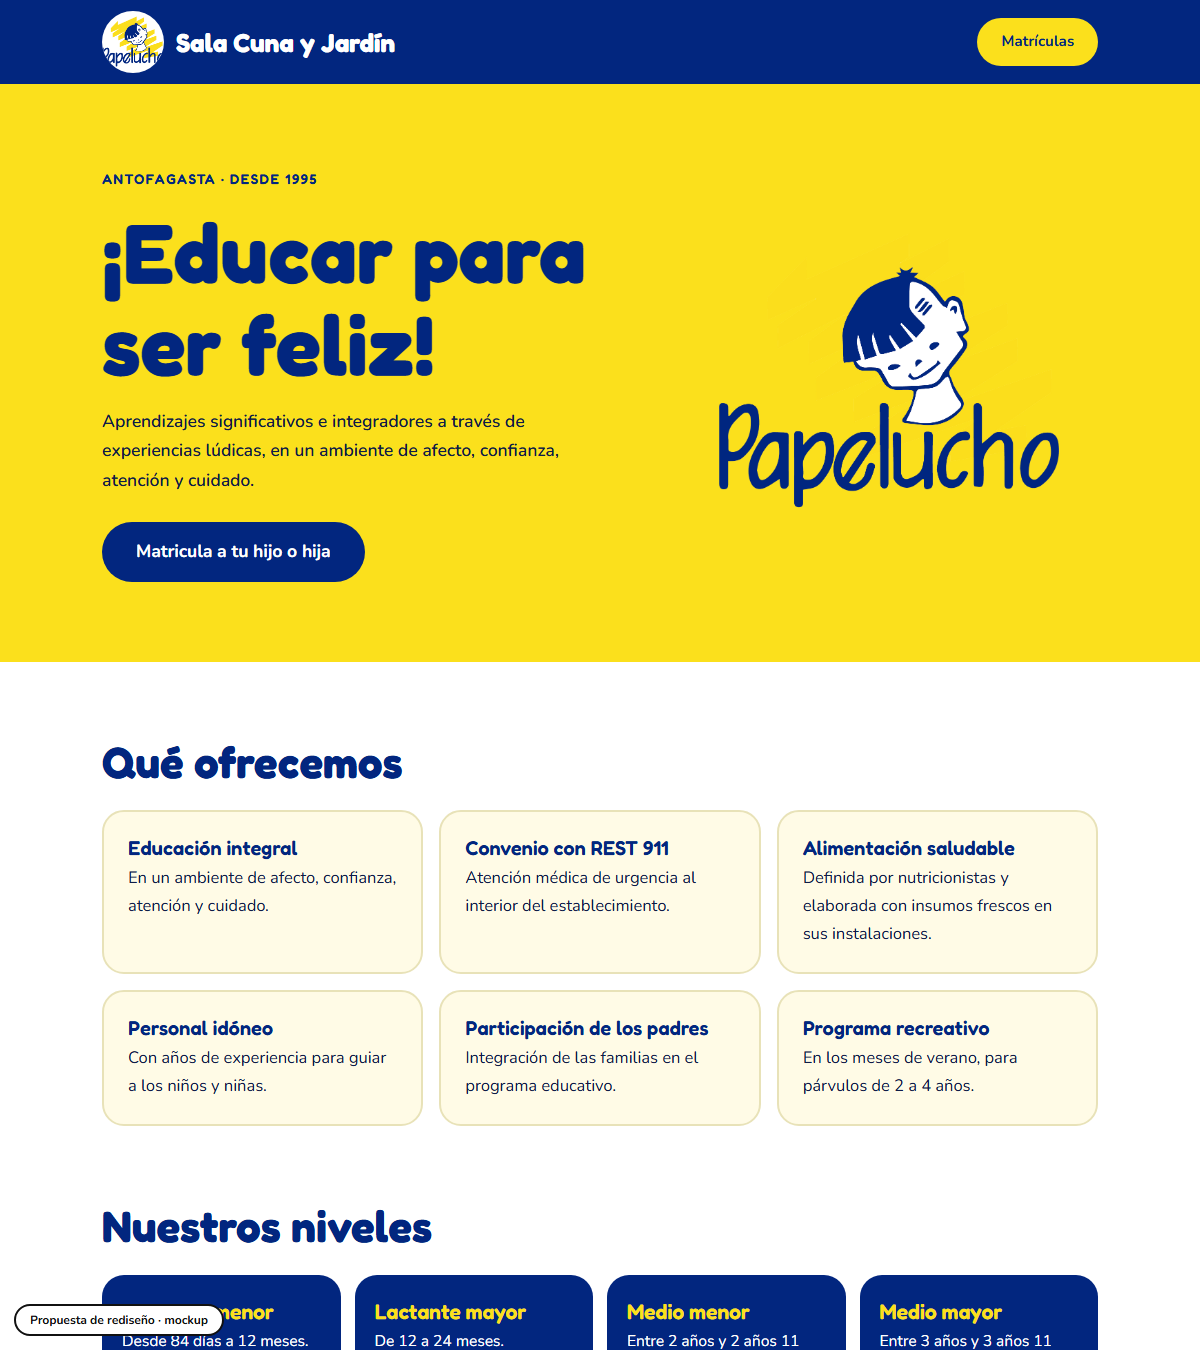
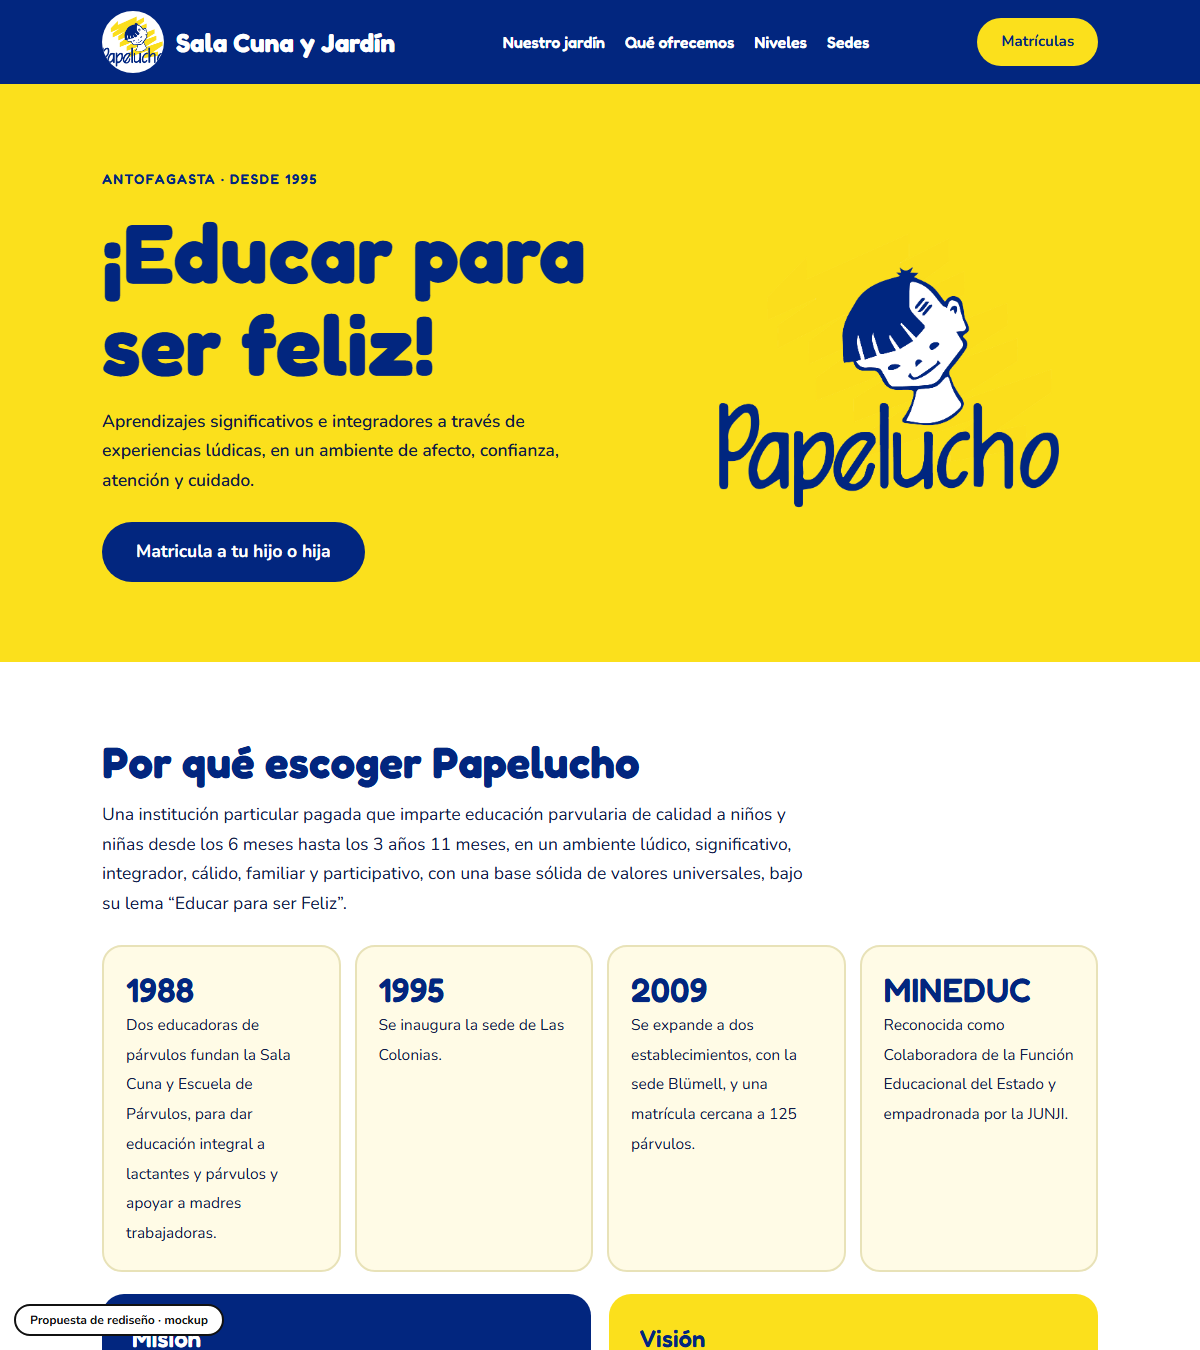
Mockup: jardin-infantil-papelucho-antofagasta

diff --git a/jardin-infantil-papelucho-antofagasta/index.html b/jardin-infantil-papelucho-antofagasta/index.html
@@ -6,12 +6,12 @@
 <link href="https://fonts.googleapis.com/css2?family=Fredoka:wght@500;600;700&family=Nunito:wght@400;600;700&display=swap" rel="stylesheet">
 <style>
 :root{--blue:#02267f;--sun:#fbe01c;--cream:#fffbe6;--ink:#0f1c47;--line:#e8e2b8}
-*{box-sizing:border-box;margin:0}html{scroll-behavior:smooth}
+*{box-sizing:border-box;margin:0}html{scroll-behavior:smooth;scroll-padding-top:100px}
 @media(prefers-reduced-motion:reduce){html{scroll-behavior:auto}}
 body{background:#fff;color:var(--ink);font:400 17.5px/1.7 Nunito,sans-serif}
 .wrap{max-width:1040px;margin:0 auto;padding:0 22px}
 h1,h2,h3{font-family:Fredoka,sans-serif;line-height:1.1}
-header{background:var(--blue);color:#fff}header .wrap{display:flex;justify-content:space-between;align-items:center;height:84px;gap:12px}
+header{position:sticky;top:0;z-index:20;background:var(--blue);color:#fff}header .wrap{display:flex;justify-content:space-between;align-items:center;height:84px;gap:12px}
 .brand{display:flex;align-items:center;gap:12px;font:700 26px Fredoka}.brand img{height:62px;width:62px;border-radius:50%;background:#fff;object-fit:contain}
 header a.b{background:var(--sun);color:var(--blue);text-decoration:none;padding:11px 24px;border-radius:30px;font-weight:700;font-size:15px}
 header a.b:hover{background:#fff}
@@ -32,20 +32,26 @@ section{padding:76px 0}h2{font-size:clamp(28px,4.2vw,44px);color:var(--blue);mar
 .contact{background:var(--blue);color:#fff;text-align:center}.contact h2{color:#fff}
 .contact a.l{display:inline-block;margin:6px 12px;font:600 clamp(24px,4vw,38px) Fredoka;color:var(--sun);text-decoration:none}.contact a.l:hover{color:#fff}
 footer{padding:22px 0 90px;text-align:center;font-size:13px;color:#667}
-.mock{position:fixed;left:14px;bottom:14px;background:#fff;color:#111;border:2px solid #111;font:700 12px/1 Nunito;padding:8px 14px;border-radius:30px;z-index:9}
+.mock{z-index:30;position:fixed;left:14px;bottom:14px;background:#fff;color:#111;border:2px solid #111;font:700 12px/1 Nunito;padding:8px 14px;border-radius:30px;z-index:9}
 @media(max-width:860px){.hero .wrap,.g3,.sedes .g2{grid-template-columns:1fr}.lv{grid-template-columns:1fr 1fr}.hero .wrap{padding:48px 22px}.hero img{max-width:220px}}
-</style></head><body>
-<header><div class="wrap"><div class="brand"><img src="assets/Logo-Cuadrado-Sin-Bajada.png" alt="Papelucho">Sala Cuna y Jardín</div><a class="b" href="#sedes">Matrículas</a></div></header>
+nav{display:flex;gap:20px;font:600 16px Fredoka}nav a{color:#fff;text-decoration:none}nav a:hover{color:var(--sun)}.tl{display:grid;grid-template-columns:repeat(4,1fr);gap:14px;margin-top:26px}.tl>div{background:var(--cream);border:2px solid var(--line);border-radius:20px;padding:22px}.tl b{display:block;font:600 34px Fredoka;color:var(--blue)}.tl span{font-size:15.5px}.two{display:grid;grid-template-columns:1fr 1fr;gap:18px;margin-top:22px}.two>div{border-radius:22px;padding:30px;background:var(--blue);color:#fff}.two>div+div{background:var(--sun);color:var(--blue)}.two b{font:600 24px Fredoka;display:block;margin-bottom:6px}.q{background:var(--cream);border-radius:24px;padding:34px;margin-top:26px;font-size:18px;font-weight:600;color:var(--blue)}.q cite{display:block;margin-top:10px;font:600 14px Nunito;font-style:normal;color:#4a5680}@media(max-width:860px){nav{display:none}.tl,.two{grid-template-columns:1fr 1fr}}@media(max-width:520px){.tl,.two{grid-template-columns:1fr}}</style></head><body>
+<header><div class="wrap"><div class="brand"><img src="assets/Logo-Cuadrado-Sin-Bajada.png" alt="Papelucho">Sala Cuna y Jardín</div><nav><a href="#historia">Nuestro jardín</a><a href="#ofrecemos">Qué ofrecemos</a><a href="#niveles">Niveles</a><a href="#sedes">Sedes</a></nav><a class="b" href="#sedes">Matrículas</a></div></header>
 <div class="hero"><div class="wrap"><div><small>Antofagasta · Desde 1995</small><h1>¡Educar para ser feliz!</h1><p>Aprendizajes significativos e integradores a través de experiencias lúdicas, en un ambiente de afecto, confianza, atención y cuidado.</p><a class="btn" href="#sedes">Matricula a tu hijo o hija</a></div><img src="assets/Logo-Cuadrado-Sin-Bajada.png" alt="Logo Papelucho"></div></div>
-<section><div class="wrap"><h2>Qué ofrecemos</h2><div class="g3">
+<section id="historia"><div class="wrap"><h2>Por qué escoger Papelucho</h2><p style="max-width:68ch">Una institución particular pagada que imparte educación parvularia de calidad a niños y niñas desde los 6 meses hasta los 3 años 11 meses, en un ambiente lúdico, significativo, integrador, cálido, familiar y participativo, con una base sólida de valores universales, bajo su lema “Educar para ser Feliz”.</p>
+<div class="tl"><div><b>1988</b><span>Dos educadoras de párvulos fundan la Sala Cuna y Escuela de Párvulos, para dar educación integral a lactantes y párvulos y apoyar a madres trabajadoras.</span></div><div><b>1995</b><span>Se inaugura la sede de Las Colonias.</span></div><div><b>2009</b><span>Se expande a dos establecimientos, con la sede Blümell, y una matrícula cercana a 125 párvulos.</span></div><div><b>MINEDUC</b><span>Reconocida como Colaboradora de la Función Educacional del Estado y empadronada por la JUNJI.</span></div></div>
+<div class="two"><div><b>Misión</b>Brindar educación temprana de alta calidad, basada en la idoneidad de los profesionales y en las Bases Curriculares de la Educación Parvularia, con una labor pedagógica en constante innovación.</div><div><b>Visión</b>Ser la sala cuna y escuela de párvulos de Antofagasta que desarrolle aprendizajes significativos e integradores a través de experiencias lúdicas, en un ambiente afectivo que incorpore a la familia.</div></div></div></section>
+<section id="ofrecemos" style="padding-top:0"><div class="wrap"><h2>Qué ofrecemos</h2><div class="g3">
 <div><b>Educación integral</b>En un ambiente de afecto, confianza, atención y cuidado.</div>
 <div><b>Convenio con REST 911</b>Atención médica de urgencia al interior del establecimiento.</div>
 <div><b>Alimentación saludable</b>Definida por nutricionistas y elaborada con insumos frescos en sus instalaciones.</div>
 <div><b>Personal idóneo</b>Con años de experiencia para guiar a los niños y niñas.</div>
 <div><b>Participación de los padres</b>Integración de las familias en el programa educativo.</div>
-<div><b>Programa recreativo</b>En los meses de verano, para párvulos de 2 a 4 años.</div></div></div></section>
-<section style="padding-top:0"><div class="wrap"><h2>Nuestros niveles</h2><div class="lv"><div><b>Lactante menor</b>Desde 84 días a 12 meses.</div><div><b>Lactante mayor</b>De 12 a 24 meses.</div><div><b>Medio menor</b>Entre 2 años y 2 años 11 meses.</div><div><b>Medio mayor</b>Entre 3 años y 3 años 11 meses.</div></div><p style="margin-top:20px;max-width:62ch;color:#44507a">El trabajo pedagógico sigue las bases curriculares de la Educación Parvularia y los Mapas de Progreso del MINEDUC, con juego de rincones, visitas pedagógicas en la comunidad e iniciación al inglés.</p></div></section>
-<section class="sedes" id="sedes"><div class="wrap"><h2>Dos sedes en Antofagasta</h2><div class="g2"><div><b>Las Colonias</b><p>Nuestra primera sede, inaugurada en 1995. Las Colonias 557.</p><p><a href="https://wa.me/56961315996">+56 9 6131 5996</a></p></div><div><b>Blümell</b><p>Nuestro segundo establecimiento. José Blümell 049.</p><p><a href="https://wa.me/56959700701">+56 9 5970 0701</a></p></div></div></div></section>
+<div><b>Infraestructura segura</b>Segura y atractiva, construida especialmente para los niños y niñas.</div></div>
+<p style="margin-top:20px;max-width:66ch;color:#44507a">Programa recreativo en los meses de verano para párvulos de 2 a 4 años. Juego de rincones, visitas pedagógicas en la comunidad e iniciación al inglés en los niveles medios, según las bases curriculares y los Mapas de Progreso del MINEDUC.</p></div></section>
+<section id="niveles" style="padding-top:0"><div class="wrap"><h2>Nuestros niveles</h2><div class="lv"><div><b>Lactante menor</b>De 84 días a 12 meses. Una educadora y dos asistentes de párvulos velan por su desarrollo integral.</div><div><b>Lactante mayor</b>De 12 a 24 meses. Ganan seguridad y autonomía, y se muestran más sociables.</div><div><b>Medio menor</b>Entre 2 años y 2 años 11 meses. Dos grupos, en ambas jornadas, con énfasis en comunicación y formación personal y social.</div><div><b>Medio mayor</b>Entre 3 años y 3 años 11 meses, en jornadas de mañana y tarde, con una educadora y una asistente.</div></div>
+<div class="two"><div><b>Sala cuna</b>Funciona durante todo el año, con una semana de vacaciones en septiembre.</div><div><b>Escuela de párvulos</b>Calendario escolar de 40 semanas, de marzo a diciembre, con vacaciones una semana en julio y una en septiembre.</div></div>
+<div class="q">“La tranquilidad que sentimos desde el primer día nos dio confianza; el recibimiento fue como estar en familia. Todo el equipo está lleno de amor y vocación.”<cite>Testimonio de una familia del jardín</cite></div></div></section>
+<section class="sedes" id="sedes"><div class="wrap"><h2>Dos sedes en Antofagasta</h2><div class="g2"><div><b>Las Colonias</b><p>Nuestra primera sede, inaugurada en 1995. Las Colonias 557.</p><p><a href="https://wa.me/56961315996">+56 9 6131 5996</a></p></div><div><b>Blümell</b><p>Nuestro segundo establecimiento. José Blümell, Antofagasta.</p><p><a href="https://wa.me/56959700701">+56 9 5970 0701</a></p></div></div></div></section>
 <section class="contact"><div class="wrap"><h2>Visítanos</h2><a class="l" href="mailto:administracion@jardinpapelucho.cl">administracion@jardinpapelucho.cl</a></div></section>
 <footer>SALA CUNA Y JARDÍN INFANTIL PAPELUCHO · ANTOFAGASTA</footer>
 <div class="mock">Propuesta de rediseño · mockup</div></body></html>
